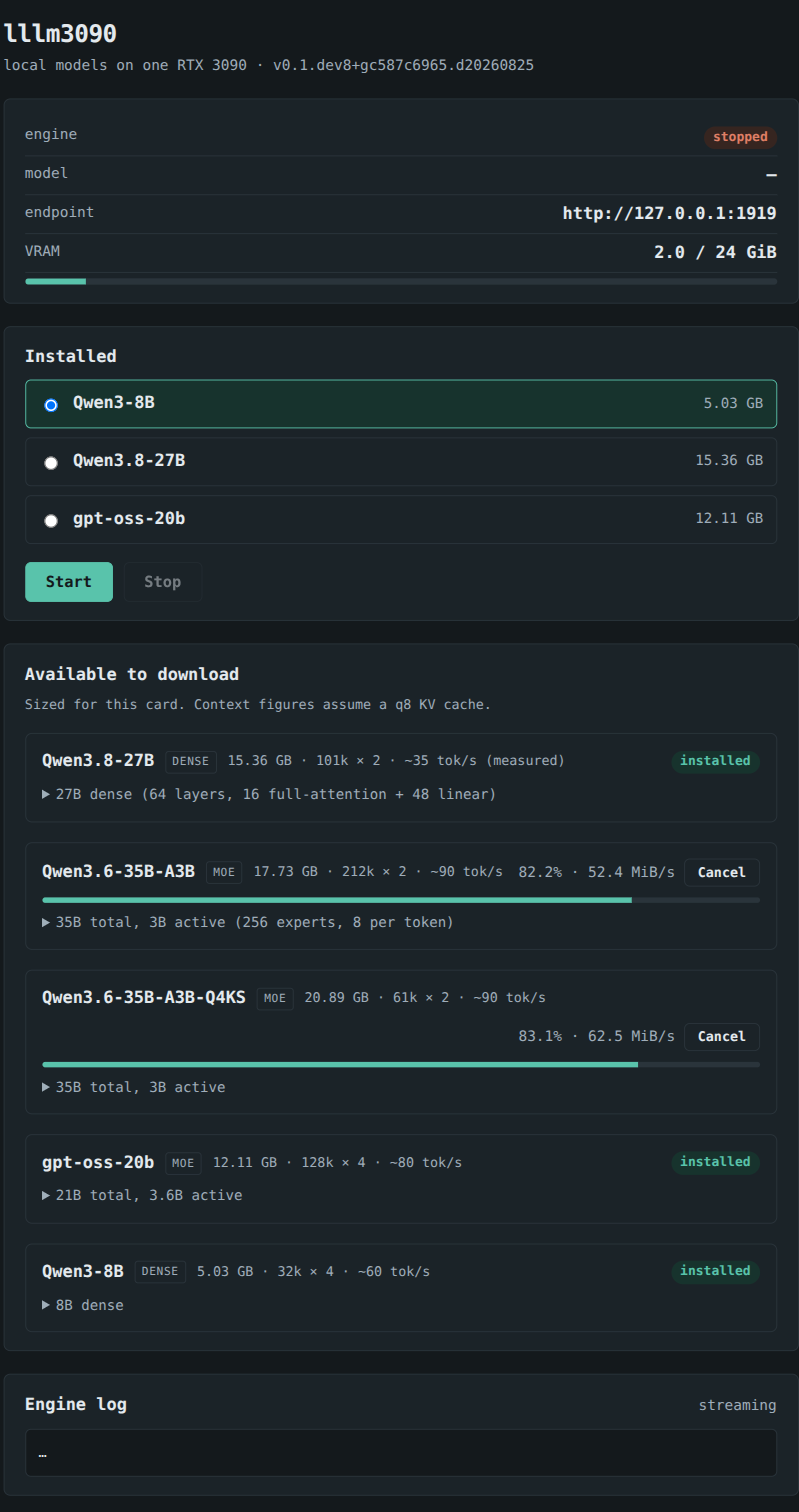
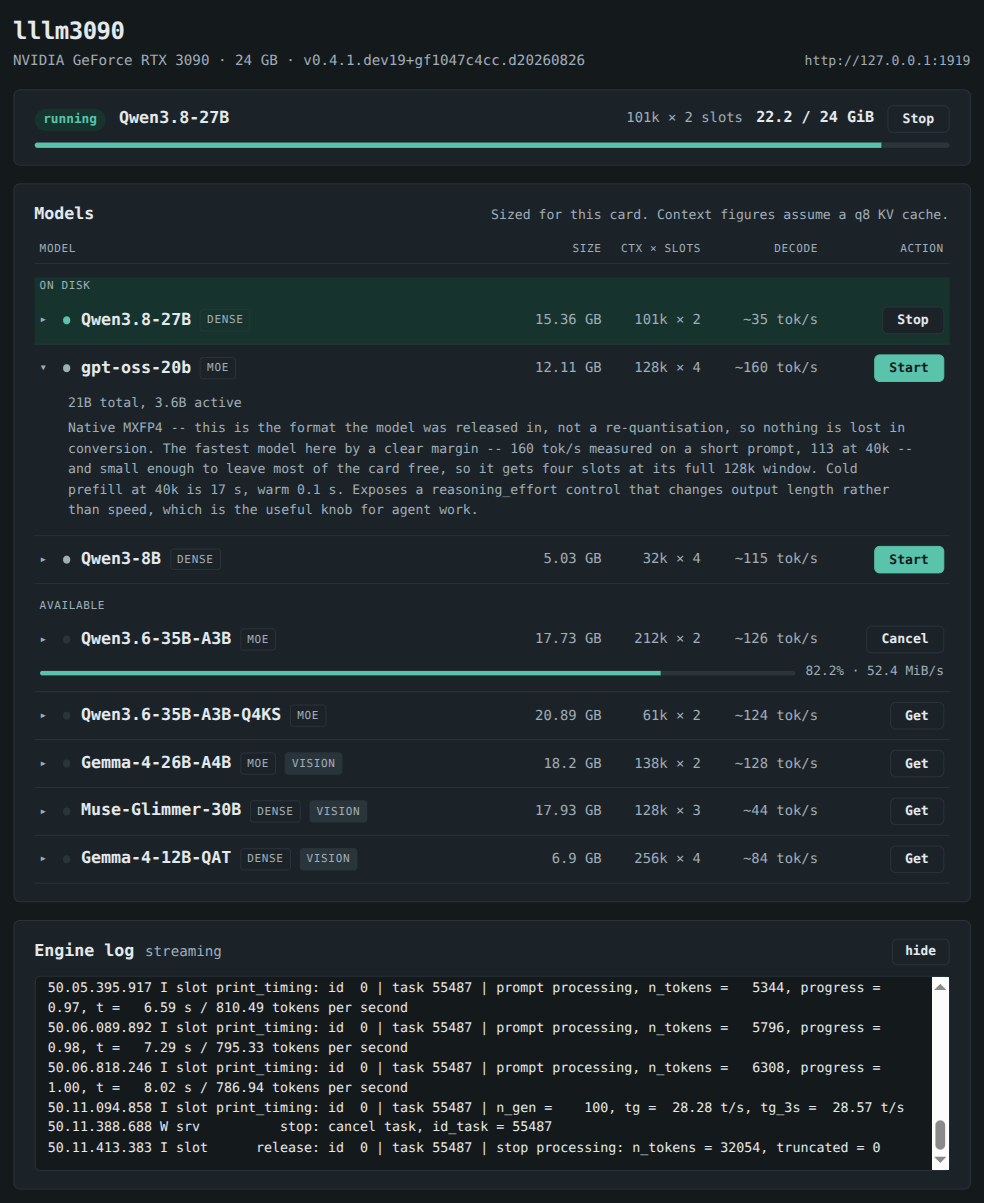
Show the list the panel actually draws, and let Sphinx resolve the reference
The README screenshot was of the two-card panel this branch replaces. Retaken
against the merged one, on the same machine, with the same information the old
shot carried: both groups, the running model, a fetch in flight, and one row
opened. Which models are on disk and the download's progress are staged; every
figure in it is this card's own arithmetic.

The `installed_models` docstring reached across modules with `:func:`, which
Sphinx cannot resolve and `-W` turns into a failed build. Every other `:func:`
in the package points inside its own module; this one becomes a literal.

Claude-Session: https://claude.ai/code/session_01AaZffjh4gKbY7tXcjLQPDC

diff --git a/src/lllm3090/state.py b/src/lllm3090/state.py
@@ -45,7 +45,7 @@ def installed_models() -> list[dict[str, Any]]:
 
     Both front ends now draw one merged list, so a checkpoint the catalogue has
     never heard of sits in it beside the curated ones and has to say the same
-    things they do. Its window comes from :func:`catalog.launch_plan` -- the
+    things they do. Its window comes from ``catalog.launch_plan`` -- the
     same call a start makes -- rather than from each renderer restating
     ``UNKNOWN_MODEL_CTX`` in its own language, which is how the console and the
     browser would end up describing one model two ways.

diff --git a/README.md b/README.md
@@ -81,10 +81,13 @@ they do not](https://gilesknap.github.io/lllm3090/explanations/landscape.html)
 
 ![The lllm3090 control panel](docs/images/panel.png)
 
-Engine state and VRAM at the top, the models you have with start/stop, the
-curated list with what fits this card and what it will do, and the engine log
-streaming underneath. Downloads run in the background with progress, and resume
-from a part file if interrupted.
+Engine state and VRAM on one line at the top, then one list of every model —
+what is on this disk and what is merely available — with what fits this card
+and what it will do, and the engine log streaming underneath. Each row carries
+the only control that makes sense for it: **Start**, **Stop**, **Get**,
+**Cancel**, or a `too big` pill. Click a row to read what the model is for.
+Downloads run in the background with progress, and resume from a part file if
+interrupted.
 
 On a machine with no browser within reach of it — a text console, an SSH
 session without a tunnel — `lllm3090 tui` draws the same panel in the terminal.
